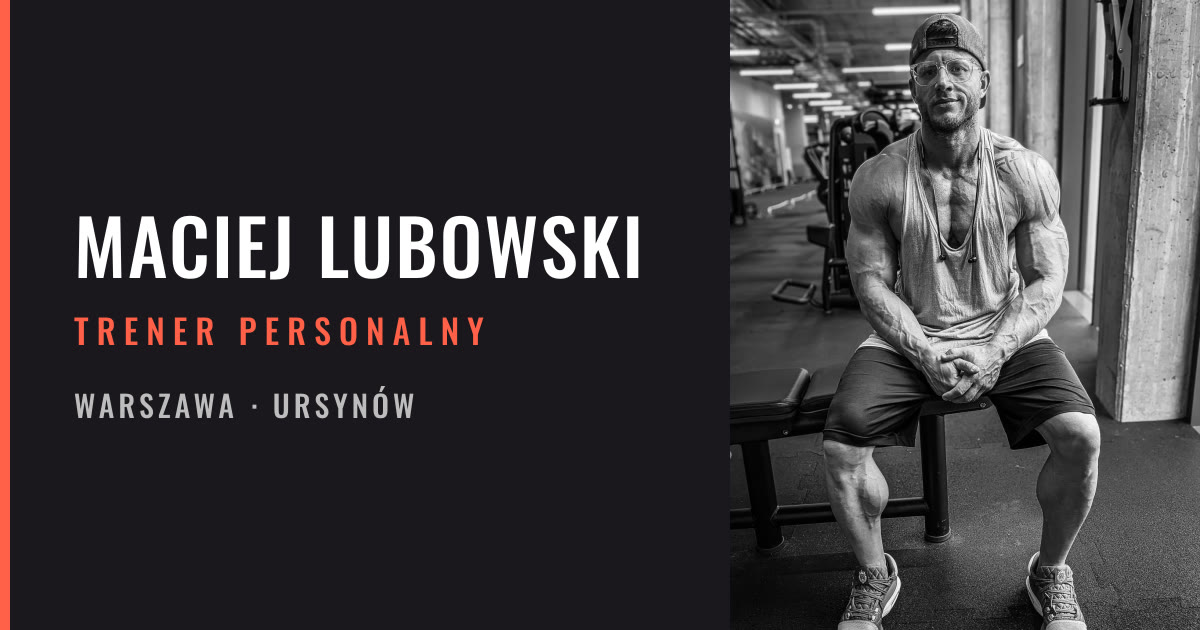
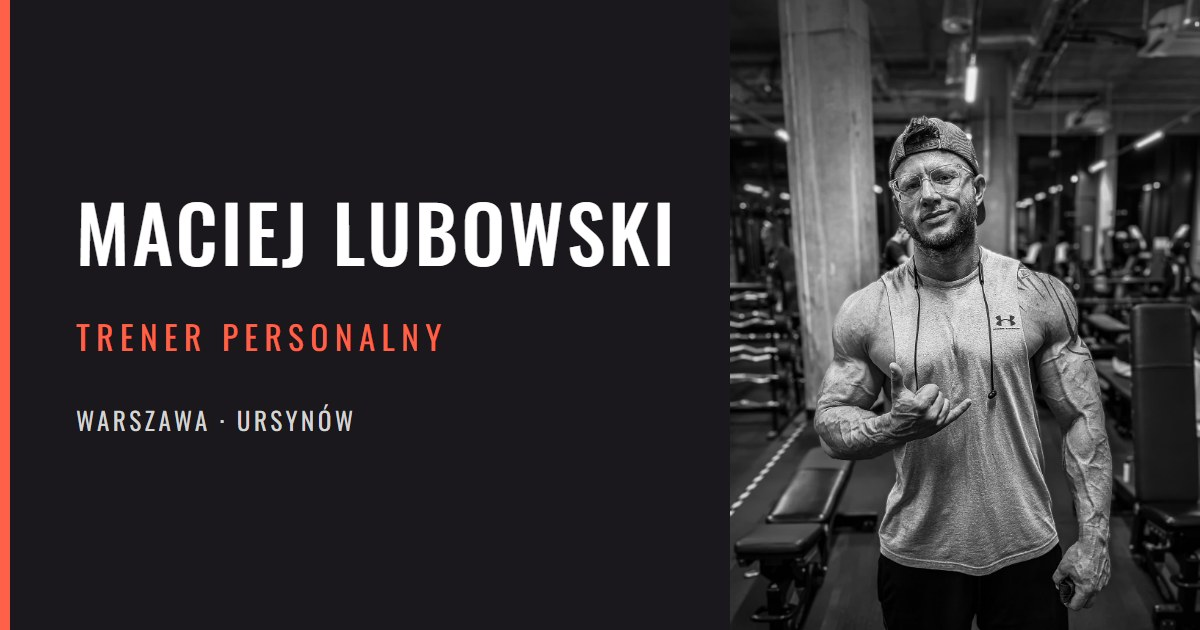
Render real stat values in HTML and refresh social preview image
- CountUp now prerenders the actual numbers (visible to search engines,
  link previews and no-JS visitors); it resets to zero only on the client
  when the stat is still off-screen, then animates by updating the text
  directly instead of re-rendering per frame
- Replace the Open Graph / Twitter image with the current photo
- Fix stale comment pointing to opengraph-image.tsx

diff --git a/src/app/CountUp.tsx b/src/app/CountUp.tsx
@@ -1,10 +1,14 @@
 "use client";
 
-import { useEffect, useRef, useState } from "react";
+import { useEffect, useRef } from "react";
 
 const DURATION = 1800;
 
 // Liczba „nabija się” od zera, gdy pojawi się na ekranie (np. "10000+").
+// W HTML z serwera jest od razu prawdziwa wartość (widzi ją Google, podgląd
+// linku i przeglądarka bez JavaScriptu). Dopiero w przeglądarce, jeśli
+// liczba jest jeszcze poza ekranem, zerujemy ją i animujemy po przewinięciu.
+// Animacja zmienia sam tekst w elemencie – bez przerysowywania komponentu.
 export default function CountUp({
   value,
   className,
@@ -12,33 +16,35 @@ export default function CountUp({
   value: string;
   className?: string;
 }) {
-  const match = value.match(/^(\d+)(.*)$/);
-  const isNumber = match !== null;
-  const target = match ? Number(match[1]) : 0;
-  const suffix = match ? match[2] : "";
-
   const ref = useRef<HTMLSpanElement>(null);
-  const [current, setCurrent] = useState<number | null>(isNumber ? 0 : null);
 
   useEffect(() => {
     const el = ref.current;
-    if (!el || !isNumber) return;
+    const match = value.match(/^(\d+)(.*)$/);
+    if (!el || !match) return;
+    const target = Number(match[1]);
+    const suffix = match[2];
+
+    const visible = el.getBoundingClientRect().top < window.innerHeight;
+    const reduceMotion = window.matchMedia(
+      "(prefers-reduced-motion: reduce)",
+    ).matches;
+    if (visible || reduceMotion) return;
+
+    const show = (n: number) => {
+      el.textContent = `${n}${suffix}`;
+    };
+    show(0);
 
     let frame = 0;
-
     const observer = new IntersectionObserver(
       ([entry]) => {
         if (!entry.isIntersecting) return;
         observer.disconnect();
-        if (window.matchMedia("(prefers-reduced-motion: reduce)").matches) {
-          setCurrent(target);
-          return;
-        }
         const start = performance.now();
         const tick = (now: number) => {
           const t = Math.min((now - start) / DURATION, 1);
-          const eased = 1 - Math.pow(1 - t, 3);
-          setCurrent(Math.round(eased * target));
+          show(Math.round((1 - Math.pow(1 - t, 3)) * target));
           if (t < 1) frame = requestAnimationFrame(tick);
         };
         frame = requestAnimationFrame(tick);
@@ -50,12 +56,13 @@ export default function CountUp({
     return () => {
       observer.disconnect();
       cancelAnimationFrame(frame);
+      show(target);
     };
-  }, [isNumber, target]);
+  }, [value]);
 
   return (
-    <span ref={ref} className={className} aria-label={value}>
-      {current === null ? value : `${current}${suffix}`}
+    <span ref={ref} className={className}>
+      {value}
     </span>
   );
 }

diff --git a/src/app/layout.tsx b/src/app/layout.tsx
@@ -31,7 +31,7 @@ export const metadata: Metadata = {
   category: "fitness",
   alternates: { canonical: "/" },
   // Podgląd linku na Facebooku, WhatsAppie, Messengerze, LinkedInie itd.
-  // (obrazek: opengraph-image.tsx)
+  // (obrazek: opengraph-image.jpg)
   openGraph: {
     type: "website",
     locale: "pl_PL",
